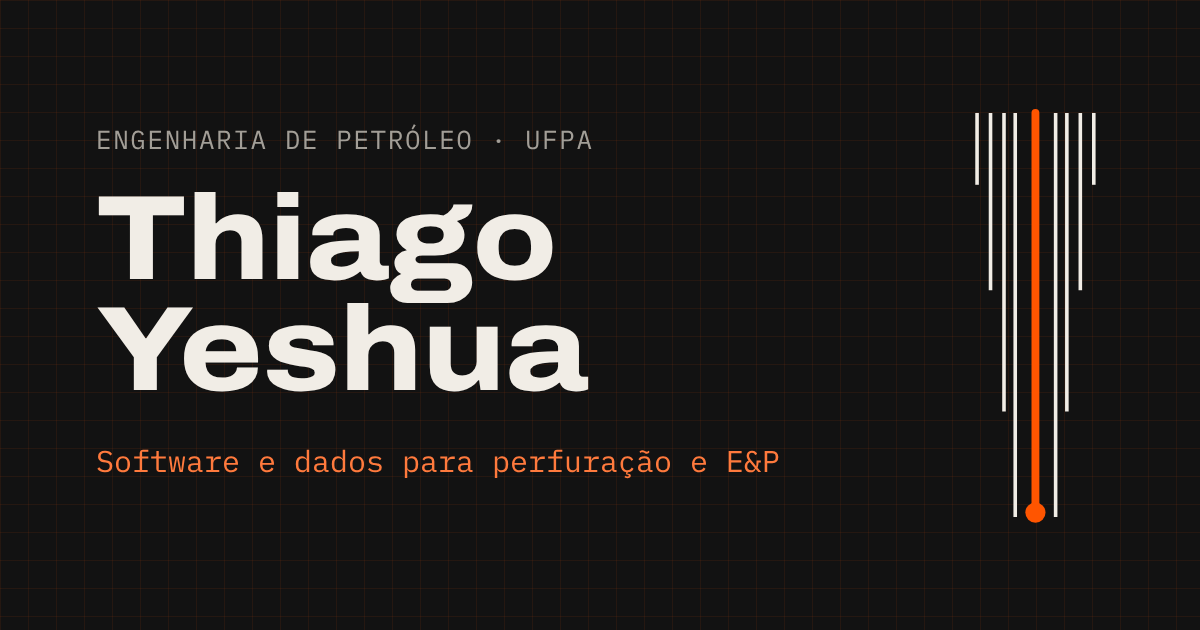
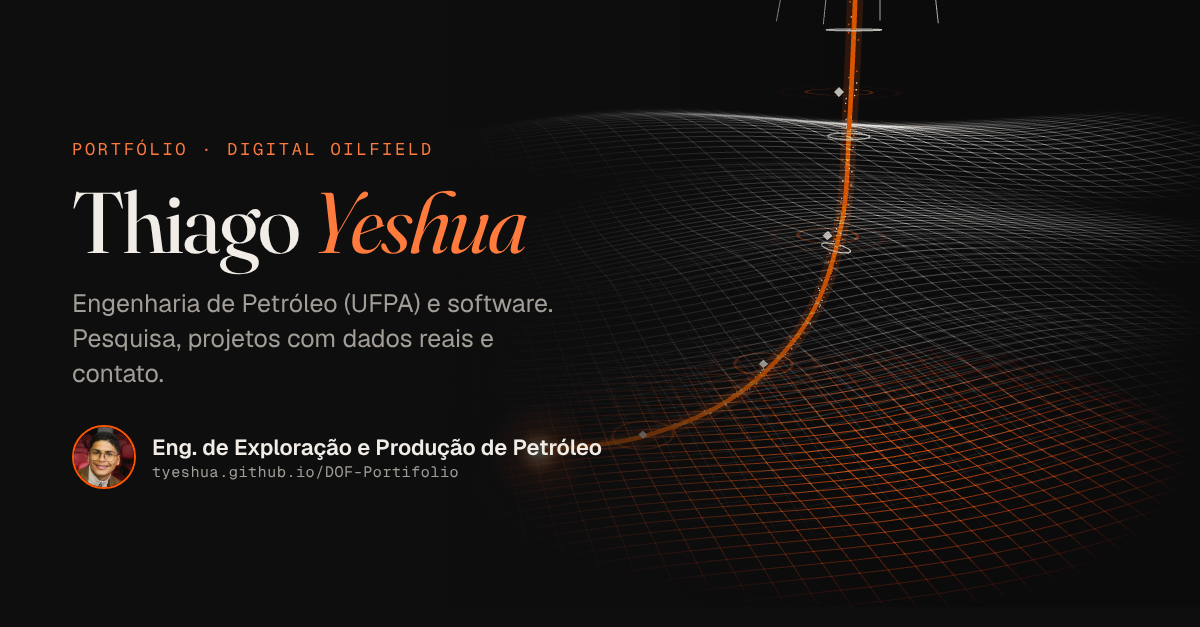
Prévia de link para o LinkedIn

diff --git a/index.html b/index.html
@@ -8,11 +8,21 @@
     <meta name="description" content="Thiago Yeshua, estudante de Engenharia de Petróleo (UFPA) e pesquisador em ciência de dados e software para perfuração e E&P." />
     <meta name="theme-color" content="#f4f1ea" media="(prefers-color-scheme: light)" />
     <meta name="theme-color" content="#121212" media="(prefers-color-scheme: dark)" />
-    <!-- Prévia de link (WhatsApp, LinkedIn). Depois do deploy, troque SEU-DOMINIO pelo endereço real. -->
+    <!-- Prévia de link (LinkedIn, WhatsApp). Se o endereço do site mudar, troque https://tyeshua.github.io/DOF-Portifolio/ nas linhas abaixo. -->
+    <link rel="canonical" href="https://tyeshua.github.io/DOF-Portifolio/" />
     <meta property="og:type" content="profile" />
-    <meta property="og:title" content="Thiago Yeshua · Engenharia de Petróleo e Software" />
-    <meta property="og:description" content="Software e dados para perfuração e E&P. Projetos, produção científica e contato." />
-    <meta property="og:image" content="https://SEU-DOMINIO.vercel.app/og.png" />
+    <meta property="og:site_name" content="Thiago Yeshua" />
+    <meta property="og:locale" content="pt_BR" />
+    <meta property="og:url" content="https://tyeshua.github.io/DOF-Portifolio/" />
+    <meta property="og:title" content="Thiago Yeshua · Portfólio de Digital Oilfield" />
+    <meta property="og:description" content="Engenharia de Petróleo (UFPA) e software: pesquisa, projetos de dados de produção, perfuração e gêmeos digitais." />
+    <meta property="og:image" content="https://tyeshua.github.io/DOF-Portifolio/og.png" />
+    <meta property="og:image:width" content="1200" />
+    <meta property="og:image:height" content="627" />
+    <meta property="og:image:alt" content="Thiago Yeshua, portfólio de Digital Oilfield" />
+    <meta property="profile:first_name" content="Thiago" />
+    <meta property="profile:last_name" content="Yeshua" />
+    <meta name="twitter:card" content="summary_large_image" />
     <link rel="icon" href="favicon.svg" type="image/svg+xml" />
   </head>
   <body>
